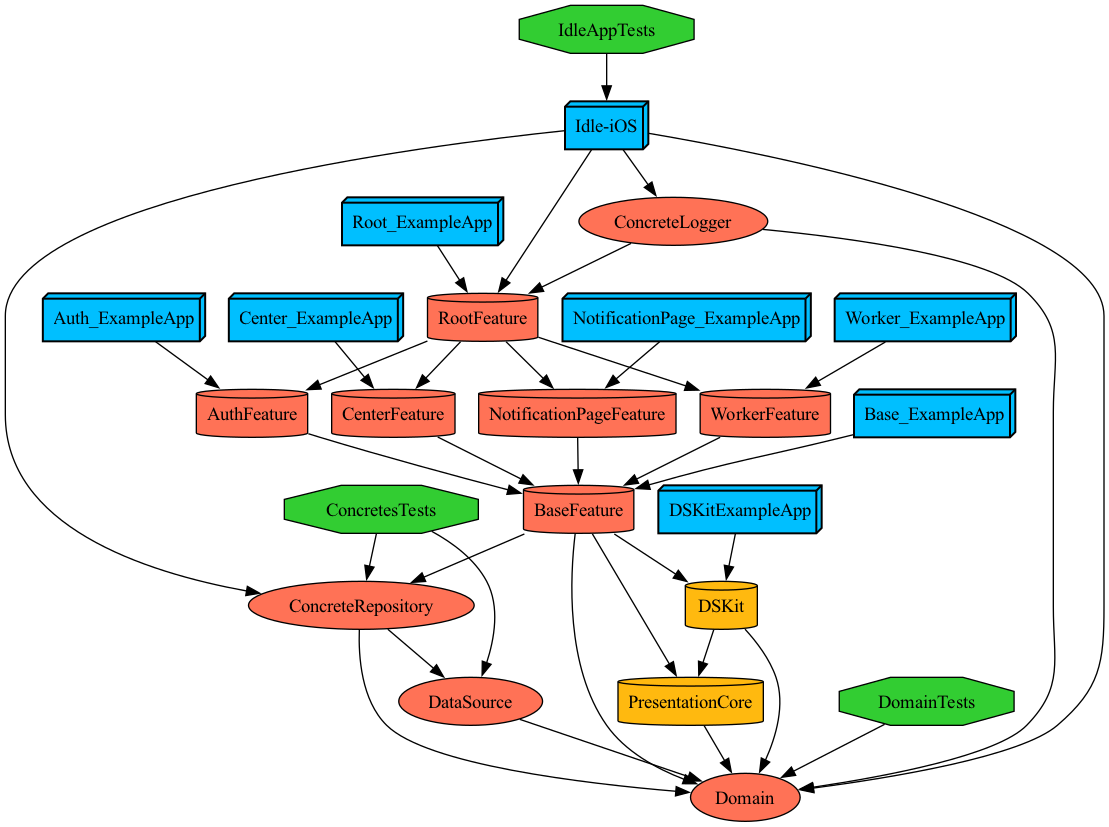
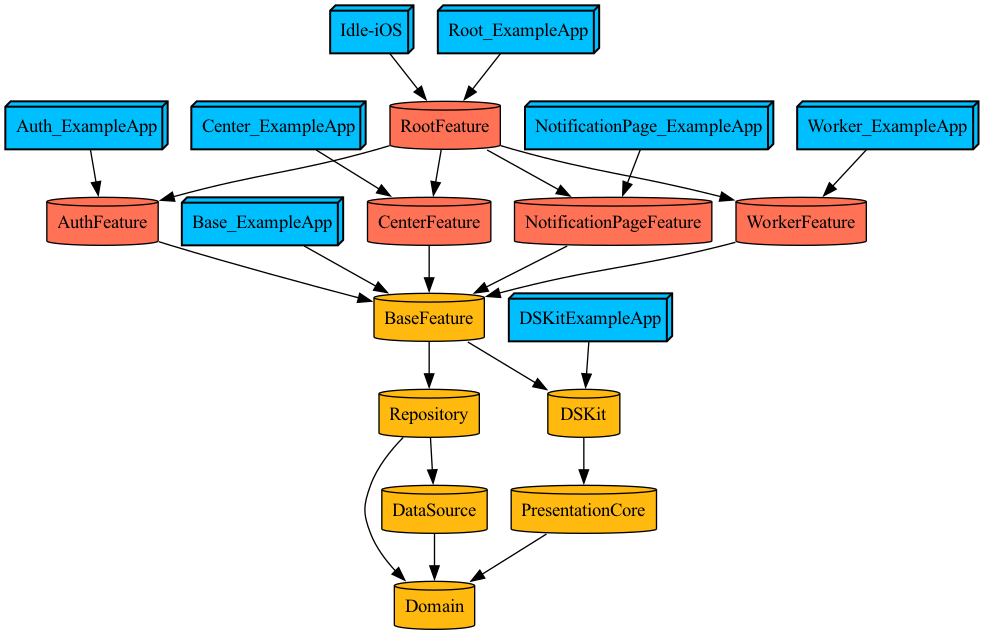
[IDLE-000] 데이터 모듈 이름 수정및, 모듈 의존성 구조 정리

diff --git a/project/Projects/Data/Project.swift b/project/Projects/Data/Project.swift
@@ -19,39 +19,20 @@ let project = Project(
         
         /// RepositoryConcrete
         .target(
-            name: "ConcreteRepository",
+            name: "Repository",
             destinations: DeploymentSettings.platforms,
-            product: .staticLibrary,
+            product: .framework,
             bundleId: "$(PRODUCT_BUNDLE_IDENTIFIER)",
             deploymentTargets: DeploymentSettings.deployment_version,
-            sources: ["ConcreteRepository/**"],
+            sources: ["Repository/**"],
             dependencies: [
                 D.Domain,
                 D.Data.DataSource,
                 
-                // ThirdParty
-                D.ThirdParty.RxSwift,
-                D.ThirdParty.FirebaseRemoteConfig,
                 D.ThirdParty.SDWebImageWebPCoder,
             ],
             settings: .settings(
-                base: ["ENABLE_TESTABILITY": "YES"]
-            )
-        ),
-        
-        /// ConcreteTests
-        .target(
-            name: "ConcretesTests",
-            destinations: DeploymentSettings.platforms,
-            product: .unitTests,
-            bundleId: "$(PRODUCT_BUNDLE_IDENTIFIER)",
-            deploymentTargets: DeploymentSettings.deployment_version,
-            sources: ["ConcretesTests/**"],
-            dependencies: [
-                D.Data.ConcreteRepository,
-                D.Data.DataSource,
-            ],
-            settings: .settings(
+                base: ["ENABLE_TESTABILITY": "YES"],
                 configurations: IdleConfiguration.dataConfigurations
             )
         ),
@@ -60,7 +41,7 @@ let project = Project(
         .target(
             name: "DataSource",
             destinations: DeploymentSettings.platforms,
-            product: .staticLibrary,
+            product: .framework,
             bundleId: "$(PRODUCT_BUNDLE_IDENTIFIER)",
             deploymentTargets: DeploymentSettings.deployment_version,
             sources: [
@@ -82,11 +63,27 @@ let project = Project(
                 configurations: IdleConfiguration.dataConfigurations
             )
         ),
+        
+        /// ConcreteTests
+        .target(
+            name: "DataTests",
+            destinations: DeploymentSettings.platforms,
+            product: .unitTests,
+            bundleId: "$(PRODUCT_BUNDLE_IDENTIFIER)",
+            deploymentTargets: DeploymentSettings.deployment_version,
+            sources: ["DataTests/**"],
+            dependencies: [
+                D.Data.Repository,
+            ],
+            settings: .settings(
+                configurations: IdleConfiguration.dataConfigurations
+            )
+        ),
     ],
     schemes: [
         Scheme.makeTestableSchemes(
-            .target("ConcreteRepository"),
-            testableTarget: .target("ConcretesTests"),
+            .target("Repository"),
+            testableTarget: .target("DataTests"),
             configNames: [
                 IdleConfiguration.debugConfigName,
                 IdleConfiguration.releaseConfigName,

diff --git a/project/Projects/Presentation/Feature/Root/Sources/Screen/Common/InitialScreen/InitialScreenVM.swift b/project/Projects/Presentation/Feature/Root/Sources/Screen/Common/InitialScreen/InitialScreenVM.swift
@@ -26,32 +26,19 @@ public class InitialScreenVM: BaseViewModel {
     let viewDidLoad: PublishRelay<Void> = .init()
     let viewWillAppear: PublishRelay<Void> = .init()
     
-    let authUseCase: AuthUseCase
-    let workerProfileUseCase: WorkerProfileUseCase
-    let centerProfileUseCase: CenterProfileUseCase
-    let userInfoLocalRepository: UserInfoLocalRepository
-    let remoteConfigRepository: RemoteConfigRepository
+    @Injected var authUseCase: AuthUseCase
+    @Injected var workerProfileUseCase: WorkerProfileUseCase
+    @Injected var centerProfileUseCase: CenterProfileUseCase
+    @Injected var userInfoLocalRepository: UserInfoLocalRepository
     
     // network monitoring
     private let networkMonitor: NWPathMonitor = .init()
     private let networkMonitoringQueue = DispatchQueue.global(qos: .background)
     private let networtIsAvailablePublisher: PublishSubject<Bool> = .init()
     
-    public init(
-            coordinator: RootCoorinatable?,
-            authUseCase: AuthUseCase,
-            workerProfileUseCase: WorkerProfileUseCase,
-            centerProfileUseCase: CenterProfileUseCase,
-            userInfoLocalRepository: UserInfoLocalRepository,
-            remoteConfigRepository: RemoteConfigRepository
-        )
-    {
+    public init(coordinator: RootCoorinatable?) {
+        
         self.coordinator = coordinator
-        self.authUseCase = authUseCase
-        self.workerProfileUseCase = workerProfileUseCase
-        self.centerProfileUseCase = centerProfileUseCase
-        self.userInfoLocalRepository = userInfoLocalRepository
-        self.remoteConfigRepository = remoteConfigRepository
         
         super.init()
         
@@ -96,17 +83,17 @@ public class InitialScreenVM: BaseViewModel {
         // MARK: 강제업데이트 확인
         // 네트워크 확인 -> 강제업데이트 확인
         let needsForceUpdate = networkConnected
-            .flatMap { [remoteConfigRepository] _ in
-                remoteConfigRepository.fetchRemoteConfig()
+            .flatMap { _ in
+                RemoteConfigService.shared.fetchRemoteConfig()
             }
             .compactMap { $0.value }
-            .map { [remoteConfigRepository] isConfigFetched in
+            .map { isConfigFetched in
                 
                 if !isConfigFetched {
                     Crashlytics.crashlytics().log("Remote Config fetch실패")
                 }
                 
-                guard let config = remoteConfigRepository.getForceUpdateInfo() else {
+                guard let config = RemoteConfigService.shared.getForceUpdateInfo() else {
                     // ‼ Config로딩 불가시 크래쉬
                     Crashlytics.crashlytics().log("Remote Config획득 실패")
                     fatalError("Remote Config fetching에러")

diff --git a/project/Projects/App/Project.swift b/project/Projects/App/Project.swift
@@ -35,46 +35,8 @@ let project = Project(
                 
                 // Presentation
                 D.Presentation.RootFeature,
-                
-                // Domain
-                D.Domain,
-                
-                // Data
-                D.Data.ConcreteRepository,
-                
-                // Logger
-                D.App.ConcreteLogger,
-                
-                // ThirdParty
-                D.ThirdParty.FirebaseMessaging,
             ],
             settings: .settings(
-                configurations: IdleConfiguration.appConfigurations
-            )
-        ),
-        
-        .target(
-            name: "ConcreteLogger",
-            destinations: DeploymentSettings.platforms,
-            product: .staticLibrary,
-            bundleId: "$(PRODUCT_BUNDLE_IDENTIFIER).concretelogger",
-            deploymentTargets: DeploymentSettings.deployment_version,
-            sources: [
-                "ConcreteLogger/**",
-                SecretSource.amplitudeConfig,
-            ],
-            dependencies: [
-                
-                D.Presentation.RootFeature,
-                D.Domain,
-                
-                // ThirdParty
-                D.ThirdParty.Amplitude,
-            ],
-            settings: .settings(
-                base: [
-                    "ENABLE_TESTABILITY": "YES",
-                ],
                 configurations: IdleConfiguration.appConfigurations
             )
         ),

diff --git a/project/Projects/Presentation/Feature/Base/Project.swift b/project/Projects/Presentation/Feature/Base/Project.swift
@@ -21,29 +21,21 @@ let project = Project(
         .target(
             name: "BaseFeature",
             destinations: DeploymentSettings.platforms,
-            product: .staticFramework,
+            product: .framework,
             bundleId: "$(PRODUCT_BUNDLE_IDENTIFIER)",
             deploymentTargets: DeploymentSettings.deployment_version,
             sources: ["Sources/**"],
             resources: ["Resources/**"],
             dependencies: [
-                // Presentation
-                D.Presentation.PresentationCore,
-                D.Presentation.DSKit,
-
-                // Domain
-                D.Domain,
                 
                 // Data
-                D.Data.ConcreteRepository,
+                D.Data.Repository,
+                
+                // Presentation
+                D.Presentation.DSKit,
 
                 // ThirdParty
-                D.ThirdParty.RxSwift,
-                D.ThirdParty.RxCocoa,
                 D.ThirdParty.NaverMapSDKForSPM,
-                D.ThirdParty.FirebaseCrashlytics,
-                D.ThirdParty.FirebaseAnalytics,
-                D.ThirdParty.SDWebImageWebPCoder,
             ],
             settings: .settings(
                 configurations: IdleConfiguration.presentationConfigurations

diff --git a/project/Projects/Presentation/Feature/Root/Project.swift b/project/Projects/Presentation/Feature/Root/Project.swift
@@ -24,7 +24,10 @@ let project = Project(
             product: .staticFramework,
             bundleId: "$(PRODUCT_BUNDLE_IDENTIFIER)",
             deploymentTargets: DeploymentSettings.deployment_version,
-            sources: ["Sources/**"],
+            sources: [
+                "Sources/**",
+                SecretSource.amplitudeConfig,
+            ],
             resources: ["Resources/**"],
             dependencies: [
 
@@ -33,6 +36,13 @@ let project = Project(
                 D.Presentation.WorkerFeature,
                 D.Presentation.CenterFeature,
                 D.Presentation.NotificationPageFeature,
+                
+                // ThirParty
+                D.ThirdParty.Amplitude,
+                D.ThirdParty.FirebaseRemoteConfig,
+                D.ThirdParty.FirebaseCrashlytics,
+                D.ThirdParty.FirebaseAnalytics,
+                D.ThirdParty.FirebaseMessaging,
             ],
             settings: .settings(
                 configurations: IdleConfiguration.presentationConfigurations

diff --git a/project/Projects/Presentation/Feature/Root/Sources/RemotConfig/RemoteConfigService.swift b/project/Projects/Presentation/Feature/Root/Sources/RemotConfig/RemoteConfigService.swift
@@ -1,27 +1,27 @@
 //
-//  DefaultRemoteConfigRepository.swift
-//  ConcreteRepository
+//  asd.swift
+//  RootFeature
 //
-//  Created by choijunios on 9/13/24.
+//  Created by choijunios on 9/29/24.
 //
 
 import Foundation
+import FirebaseRemoteConfig
+import RxSwift
 import Domain
 
-
-import RxSwift
-import FirebaseRemoteConfig
-
-public class DefaultRemoteConfigRepository: RemoteConfigRepository {
+public class RemoteConfigService {
+    
+    static let shared: RemoteConfigService = .init()
     
     private let remoteConfig = RemoteConfig.remoteConfig()
     private let settings = RemoteConfigSettings()
     
-    public init() {
+    private init() {
         remoteConfig.configSettings = settings
     }
     
-    public func fetchRemoteConfig() -> RxSwift.Single<Result<Bool, Error>> {
+    public func fetchRemoteConfig() -> Single<Result<Bool, Error>> {
         
         Single.create { [weak self] single in
             

diff --git a/project/Tuist/Package.swift b/project/Tuist/Package.swift
@@ -4,17 +4,17 @@ import PackageDescription
 #if TUIST
     import ProjectDescription
 
-    let packageSettings = PackageSettings(
-        // Customize the product types for specific package product
-        // Default is .staticFramework
-        productTypes: [
-            "RxSwift": .framework,
-            "RxCocoa": .framework,
-        ],
-        baseSettings: .settings(
-            configurations: [
-                .debug(name: "debug"),
-                .release(name: "release"),
+let packageSettings = PackageSettings(
+    // Customize the product types for specific package product
+    // Default is .staticFramework
+    productTypes: [
+        "RxSwift": .framework,
+        "RxCocoa": .framework,
+    ],
+    baseSettings: .settings(
+        configurations: [
+            .debug(name: "debug"),
+            .release(name: "release"),
                 .release(name: "qa")
             ]
         )

diff --git a/project/Plugins/DependencyPlugin/ProjectDescriptionHelpers/Dependency.swift b/project/Plugins/DependencyPlugin/ProjectDescriptionHelpers/Dependency.swift
@@ -12,14 +12,10 @@ public typealias D = ModuleDependency
 
 public enum ModuleDependency {
     
-    public enum App {
-        public static let ConcreteLogger: TargetDependency = .project(target: "ConcreteLogger", path: .relativeToRoot("Projects/App"))
-    }
-    
     public static let Domain: TargetDependency = .project(target: "Domain", path: .relativeToRoot("Projects/Domain"))
     
     public enum Data {
-        public static let ConcreteRepository: TargetDependency = .project(target: "ConcreteRepository", path: .relativeToRoot("Projects/Data"))
+        public static let Repository: TargetDependency = .project(target: "Repository", path: .relativeToRoot("Projects/Data"))
         public static let DataSource: TargetDependency = .project(target: "DataSource", path: .relativeToRoot("Projects/Data"))
     }
     

diff --git a/project/Projects/App/Sources/RootCoordinator/RootCoordinator.swift b/project/Projects/App/Sources/RootCoordinator/RootCoordinator.swift
@@ -32,14 +32,7 @@ class RootCoordinator {
         
         // Root VC
         let vc = InitialScreenVC()
-        let vm = InitialScreenVM(
-            coordinator: self, 
-            authUseCase: injector.resolve(AuthUseCase.self),
-            workerProfileUseCase: injector.resolve(WorkerProfileUseCase.self),
-            centerProfileUseCase: injector.resolve(CenterProfileUseCase.self),
-            userInfoLocalRepository: injector.resolve(UserInfoLocalRepository.self),
-            remoteConfigRepository: injector.resolve(RemoteConfigRepository.self)
-        )
+        let vm = InitialScreenVM(coordinator: self)
         
         vc.bind(viewModel: vm)
         

diff --git a/project/Projects/App/Sources/DI/Assembly/DataAssembly.swift b/project/Projects/App/Sources/DI/Assembly/DataAssembly.swift
@@ -7,7 +7,7 @@
 
 import Foundation
 import Domain
-import ConcreteRepository
+import Repository
 import DataSource
 
 
@@ -53,11 +53,6 @@ public struct DataAssembly: Assembly {
         // MARK: 구인공고 레포지토리
         container.register(RecruitmentPostRepository.self) { _ in
             return DefaultRecruitmentPostRepository()
-        }
-        
-        // MARK: RemoteConfig
-        container.register(RemoteConfigRepository.self) { _ in
-            return DefaultRemoteConfigRepository()
         }
     }
 }

diff --git a/project/Projects/Presentation/DSKit/Project.swift b/project/Projects/Presentation/DSKit/Project.swift
@@ -25,12 +25,10 @@ let proejct = Project(
             sources: ["Sources/**"],
             resources: ["Resources/**",],
             dependencies: [
-                D.Domain,
+                
                 D.Presentation.PresentationCore,
                 
                 // ThirdParty
-                D.ThirdParty.RxSwift,
-                D.ThirdParty.RxCocoa,
                 D.ThirdParty.FSCalendar,
             ],
             settings: .settings(

diff --git a/project/Projects/Domain/Project.swift b/project/Projects/Domain/Project.swift
@@ -30,7 +30,8 @@ let project = Project(
                 D.ThirdParty.RxSwift,
             ],
             settings: .settings(
-                base: ["ENABLE_TESTABILITY": "YES"]
+                base: ["ENABLE_TESTABILITY": "YES"],
+                configurations: IdleConfiguration.domainConfigurations
             )
         ),
         
